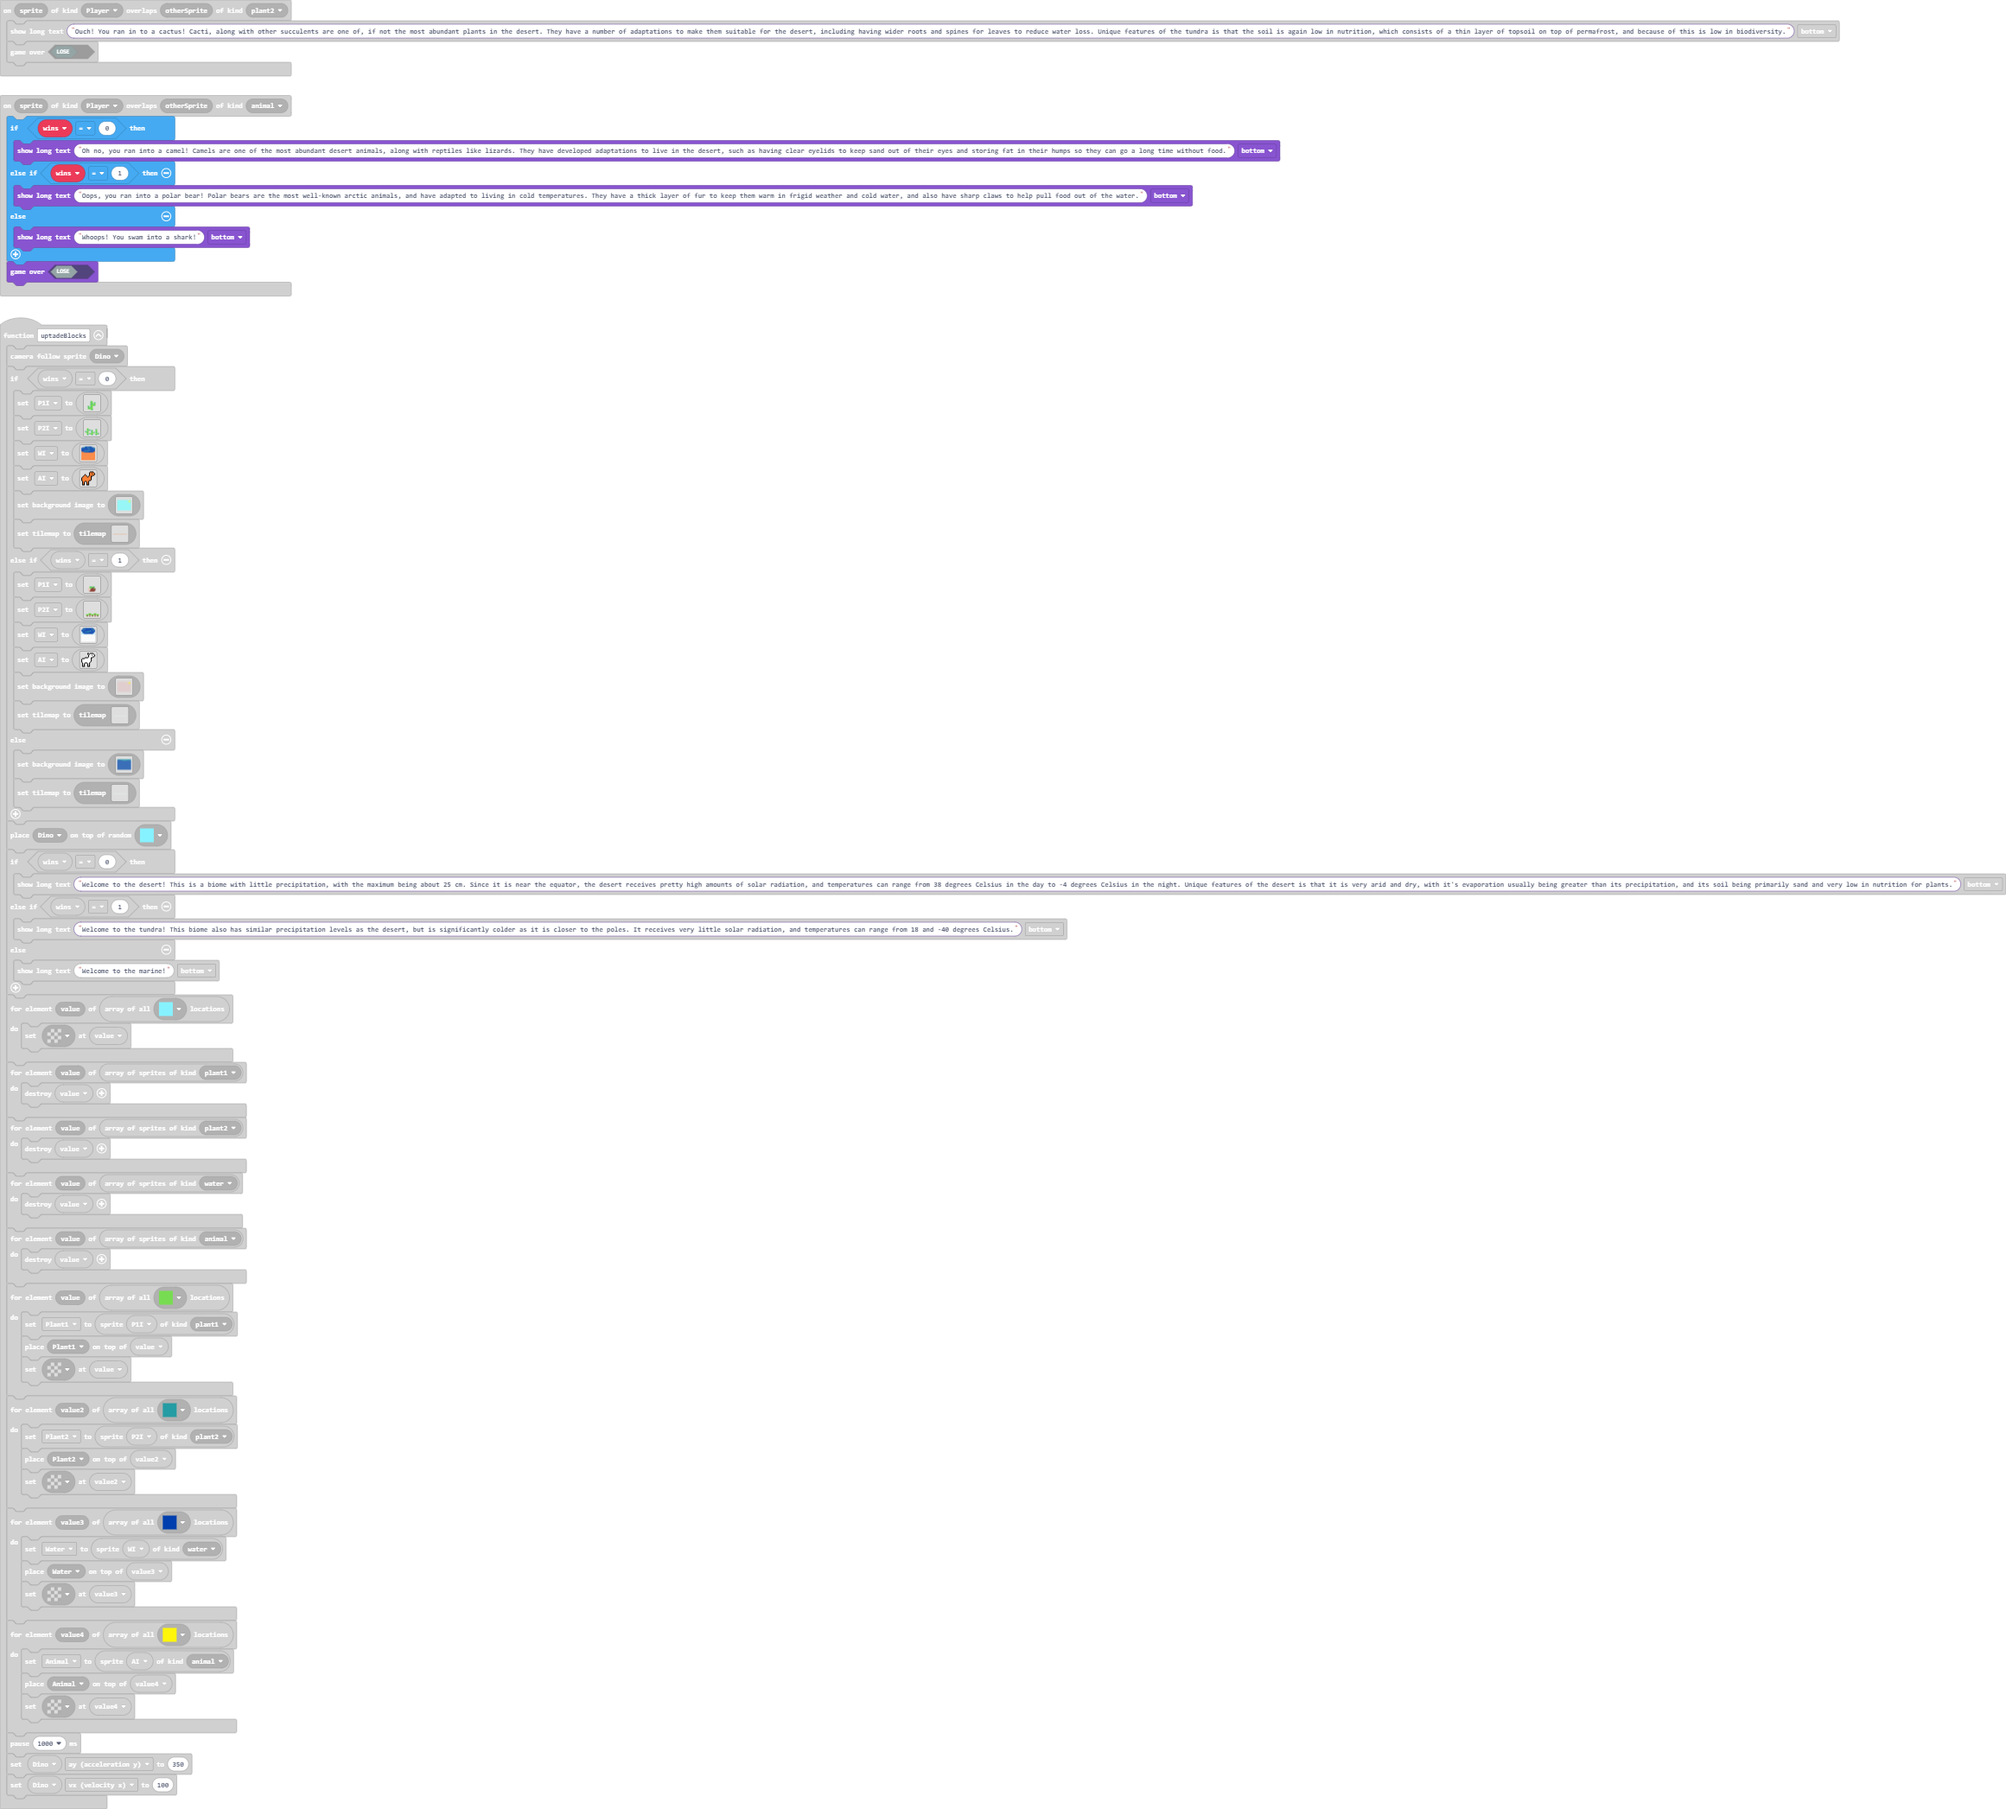
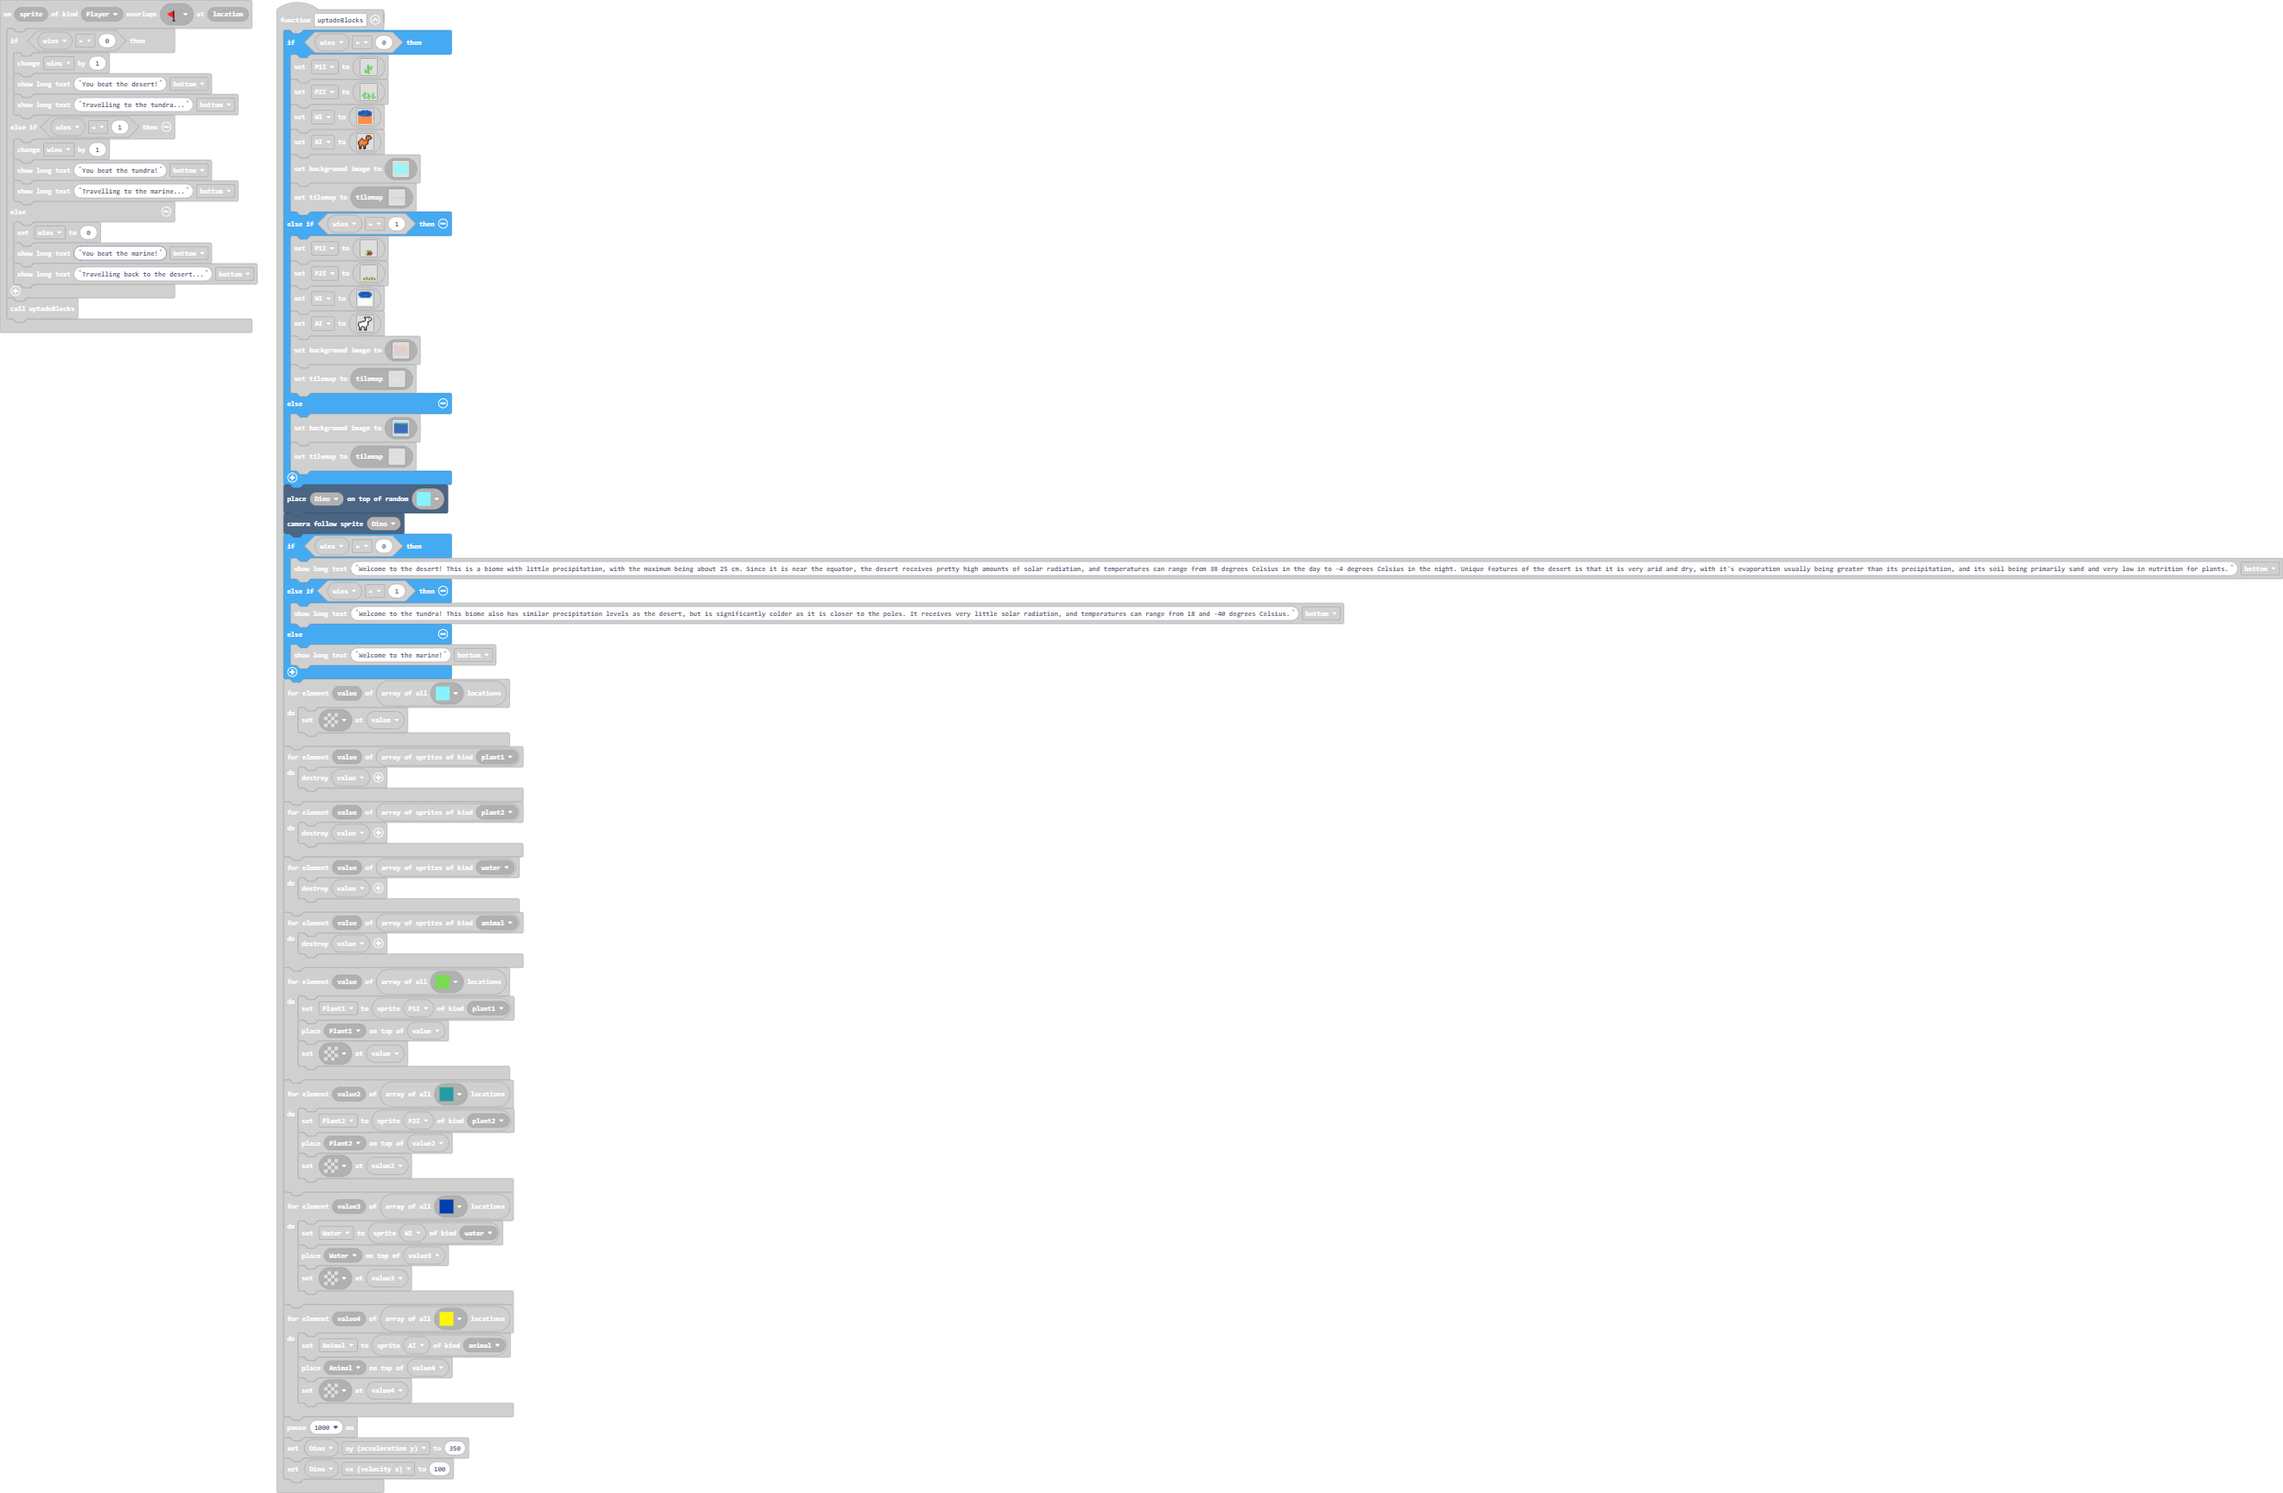
Update main.blocks, main.ts

Changed region(s): [[0.0, 0.0, 1.0, 1.0]]

diff --git a/main.ts b/main.ts
@@ -19,7 +19,6 @@ sprites.onOverlap(SpriteKind.Player, SpriteKind.plant1, function (sprite, otherS
     game.gameOver(false)
 })
 function uptadeBlocks () {
-    scene.cameraFollowSprite(Dino)
     if (wins == 0) {
         P1I = img`
             . . . . . . . . . . . . . . . . 
@@ -546,6 +545,7 @@ function uptadeBlocks () {
         tiles.setCurrentTilemap(tilemap`level3`)
     }
     tiles.placeOnRandomTile(Dino, assets.tile`myTile6`)
+    scene.cameraFollowSprite(Dino)
     if (wins == 0) {
         game.showLongText("Welcome to the desert! This is a biome with little precipitation, with the maximum being about 25 cm. Since it is near the equator, the desert receives pretty high amounts of solar radiation, and temperatures can range from 38 degrees Celsius in the day to -4 degrees Celsius in the night. Unique features of the desert is that it is very arid and dry, with it's evaporation usually being greater than its precipitation, and its soil being primarily sand and very low in nutrition for plants.", DialogLayout.Bottom)
     } else if (wins == 1) {
@@ -618,7 +618,7 @@ scene.onOverlapTile(SpriteKind.Player, assets.tile`myTile5`, function (sprite, l
         game.showLongText("Travelling to the marine...", DialogLayout.Bottom)
     } else {
         wins = 0
-        game.showLongText("You beat the tundra!", DialogLayout.Bottom)
+        game.showLongText("You beat the marine!", DialogLayout.Bottom)
         game.showLongText("Travelling back to the desert...", DialogLayout.Bottom)
     }
     uptadeBlocks()
